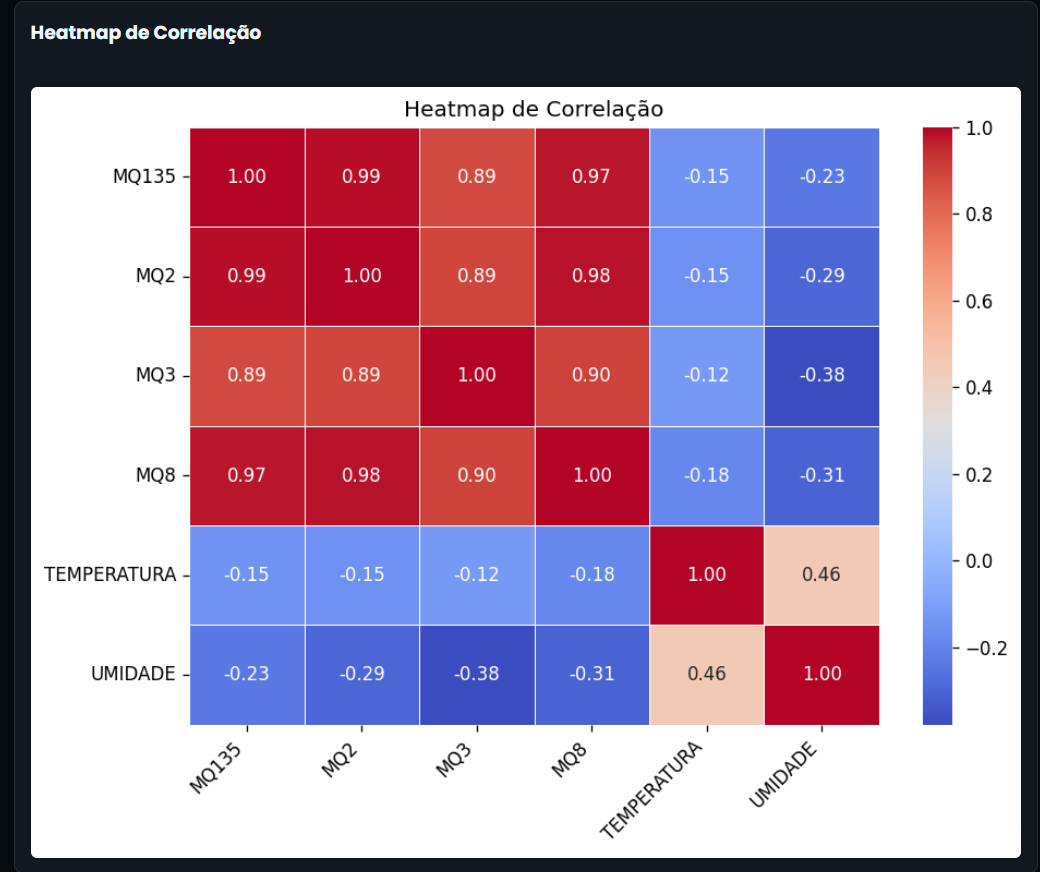
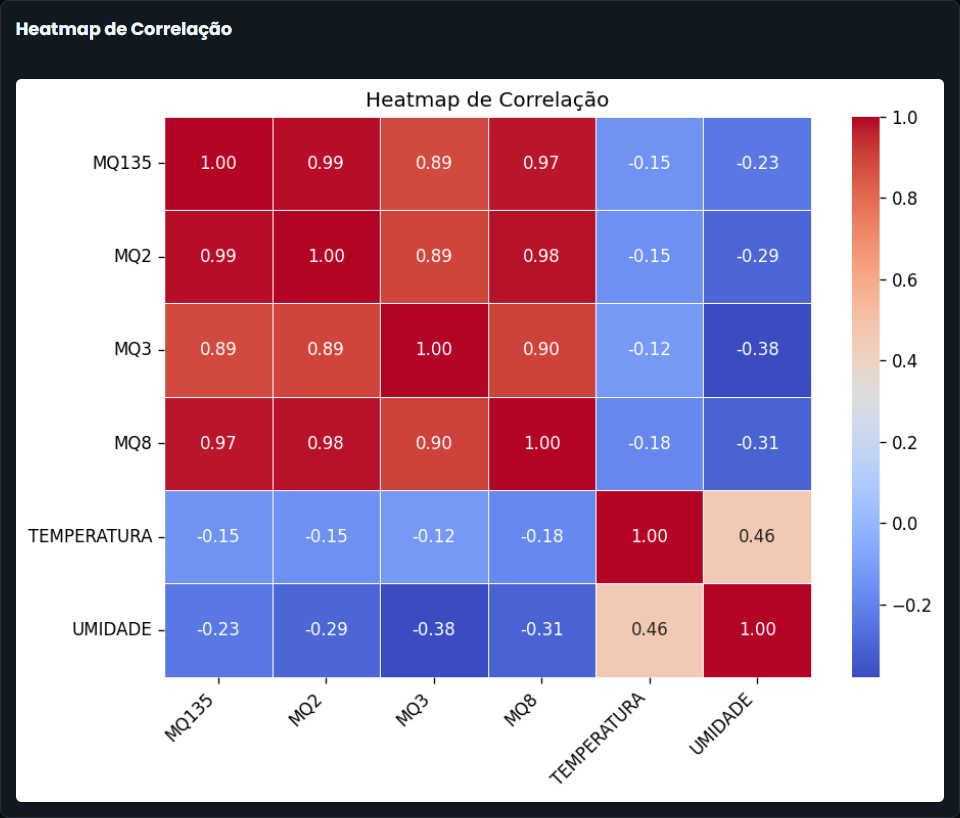
feat: padronizando tamanhos das imagens  do carrossel da seção de analise

diff --git a/src/pages/software/styles/software.css b/src/pages/software/styles/software.css
@@ -634,7 +634,6 @@
 }
 
 .software-analytics__image {
-  display: grid;
   min-width: 0;
   aspect-ratio: 4 / 3;
   margin: 0;
@@ -648,7 +647,7 @@
   display: block;
   width: 100%;
   height: 100%;
-  object-fit: contain;
+  object-fit: fill;
 }
 
 .software-analytics__caption {
@@ -893,7 +892,7 @@
   }
 
   .software-analytics__image {
-    aspect-ratio: 16 / 9;
+ 
     border-radius: 8px;
   }
 
